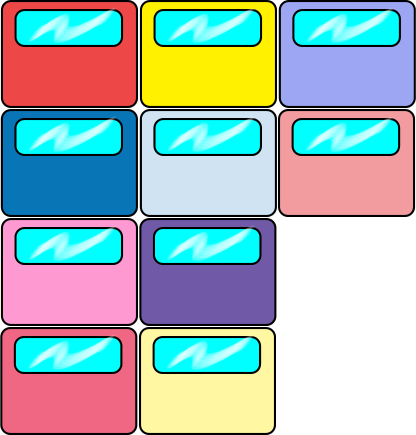
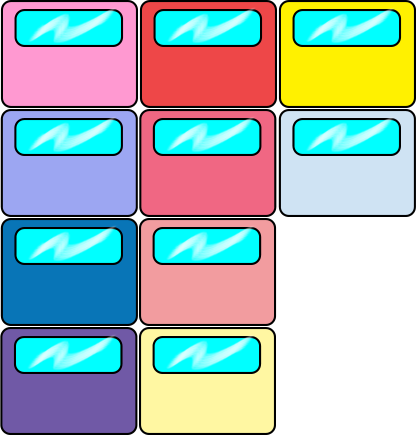
热气球配置图片

diff --git a/bin/js/HotAirBalloon/HotAirBalloonMain.js b/bin/js/HotAirBalloon/HotAirBalloonMain.js
@@ -43,6 +43,7 @@ var HotAirBalloonMain = /** @class */ (function (_super) {
     };
     //初始化
     HotAirBalloonMain.prototype.init = function () {
+        console.log(HotAirBalloon.gameConfig);
         this.bg.skin = "HotAirBalloon/" + HotAirBalloon.gameConfig.bg;
         // 用来计算随机偏移量
         var perx = this.maxX / 20;
@@ -70,7 +71,13 @@ var HotAirBalloonMain = /** @class */ (function (_super) {
     };
     HotAirBalloonMain.prototype.playSound = function () {
         var wordindex = this.soundArr[this.soundContext] - 1;
-        this.wordContext = HotAirBalloon.gameConfig.options[wordindex];
+        var optionContext = HotAirBalloon.gameConfig.options[wordindex];
+        if (HotAirBalloon.gameConfig.optionType === "word") {
+            this.wordContext = optionContext;
+        }
+        else {
+            this.wordContext = optionContext.split('.')[0];
+        }
         console.log(this.wordContext);
         Laya.SoundManager.playSound("res/audio/HotAirBalloon/" + this.wordContext + ".mp3", 1);
         // this.soundContext++;

diff --git a/src/HotAirBalloon/HotAirBalloonMain.ts b/src/HotAirBalloon/HotAirBalloonMain.ts
@@ -38,6 +38,7 @@ class HotAirBalloonMain extends ui.HotAirBalloonUI {
 
     //初始化
     public init(){
+        console.log(HotAirBalloon.gameConfig);
         this.bg.skin = "HotAirBalloon/"+HotAirBalloon.gameConfig.bg;
 
         // 用来计算随机偏移量
@@ -70,7 +71,12 @@ class HotAirBalloonMain extends ui.HotAirBalloonUI {
 
     public playSound(){
         let wordindex = this.soundArr[this.soundContext] - 1;
-        this.wordContext = HotAirBalloon.gameConfig.options[wordindex];
+        let optionContext = HotAirBalloon.gameConfig.options[wordindex];
+        if(HotAirBalloon.gameConfig.optionType === "word"){
+            this.wordContext = optionContext;
+        }else{
+            this.wordContext = optionContext.split('.')[0];
+        }
         console.log(this.wordContext);
         Laya.SoundManager.playSound("res/audio/HotAirBalloon/"+this.wordContext+".mp3", 1);
         // this.soundContext++;

diff --git a/bin/js/HotAirBalloon/Balloon.js b/bin/js/HotAirBalloon/Balloon.js
@@ -21,12 +21,17 @@ var Balloon = /** @class */ (function (_super) {
             // let ranArr = HotAirBalloon.hotAirBalloonMain.getRandomArr(9);
             _this.textBg.skin = "HotAirBalloon/" + num + ".png";
             _this.text.text = name;
+            _this.text.visible = true;
+            _this.textBg.visible = true;
+            _this.name = name;
         }
         else {
             _this.text.visible = false;
             _this.textBg.visible = false;
+            _this.pic.visible = true;
+            _this.pic.skin = "HotAirBalloon/" + name;
+            _this.name = name.split('.')[0];
         }
-        _this.name = name;
         _this.on(Laya.Event.CLICK, _this, _this.click);
         return _this;
     }

diff --git a/src/HotAirBalloon/Balloon.ts b/src/HotAirBalloon/Balloon.ts
@@ -11,11 +11,16 @@ class Balloon extends ui.BalloonUI {
             // let ranArr = HotAirBalloon.hotAirBalloonMain.getRandomArr(9);
             this.textBg.skin = "HotAirBalloon/"+num+".png";
             this.text.text = name;
+            this.text.visible = true;
+            this.textBg.visible = true;
+            this.name = name;
         }else{
             this.text.visible = false;
             this.textBg.visible = false;
+            this.pic.visible = true;
+            this.pic.skin = "HotAirBalloon/"+name;
+            this.name = name.split('.')[0];
         }
-        this.name = name;
         
         this.on(Laya.Event.CLICK, this, this.click);
     }
